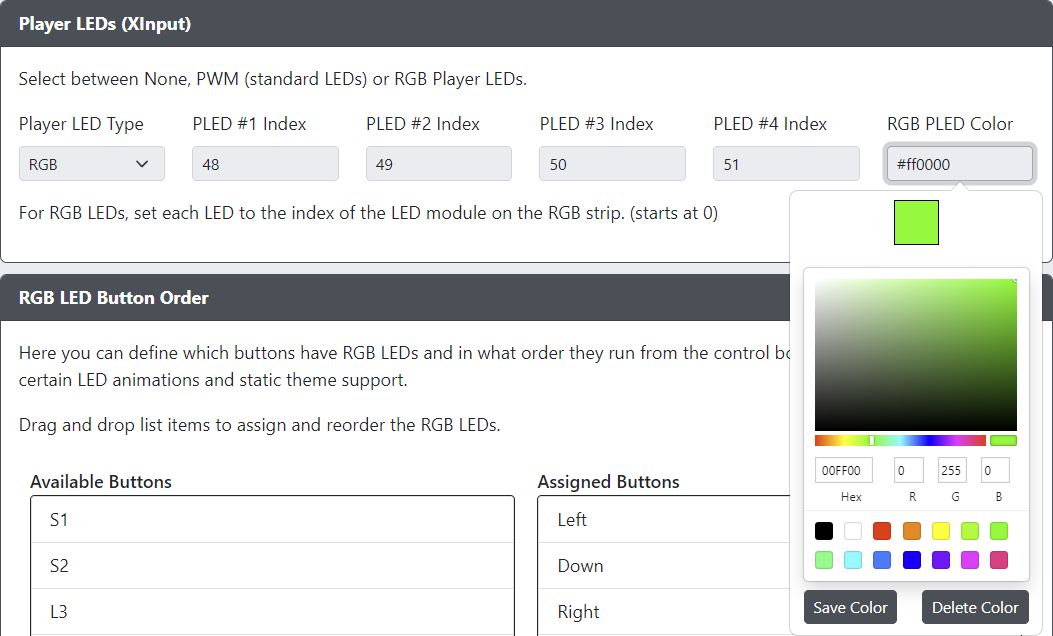
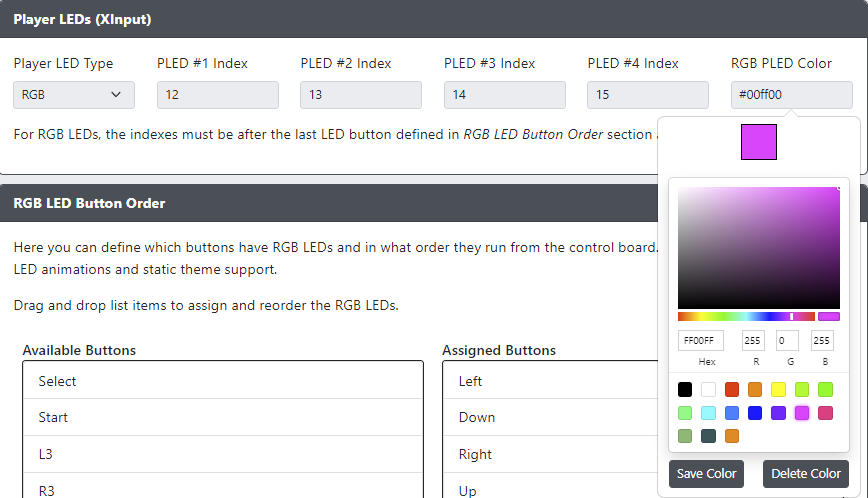
Docs update for RGB PLEDs

Changed region(s): [[0.0, 0.0301, 1.0, 1.0], [0.8399, 0.1205, 0.9643, 0.1506], [0.6843, 0.1205, 0.7776, 0.1506]]

diff --git a/docs/web-configurator.md b/docs/web-configurator.md
@@ -69,7 +69,7 @@ Available selections for `Player LED Type` are `None`, `PWM` or `RGB`.
 
 #### RGB Player LEDs
 
-!> Please note that RGB Player LEDs must be located at an index after the RGB LED Buttons on the LED strip! We hope to remove this limitation in the future.
+!> Please note that RGB Player LEDs must be located at an index after the RGB LED Buttons on the LED strip! The Web Config interface will suggest a starting index based on the number of LED buttons mapped in [RGB LED Button Order](#rgb-led-button-order) and the select `LEDs Per Button` value. We hope to remove this limitation in the future.
 
 ![GP2040-CE Configurator - PWM Player LEDs](assets/images/gpc-pled-rgb.png)
 
